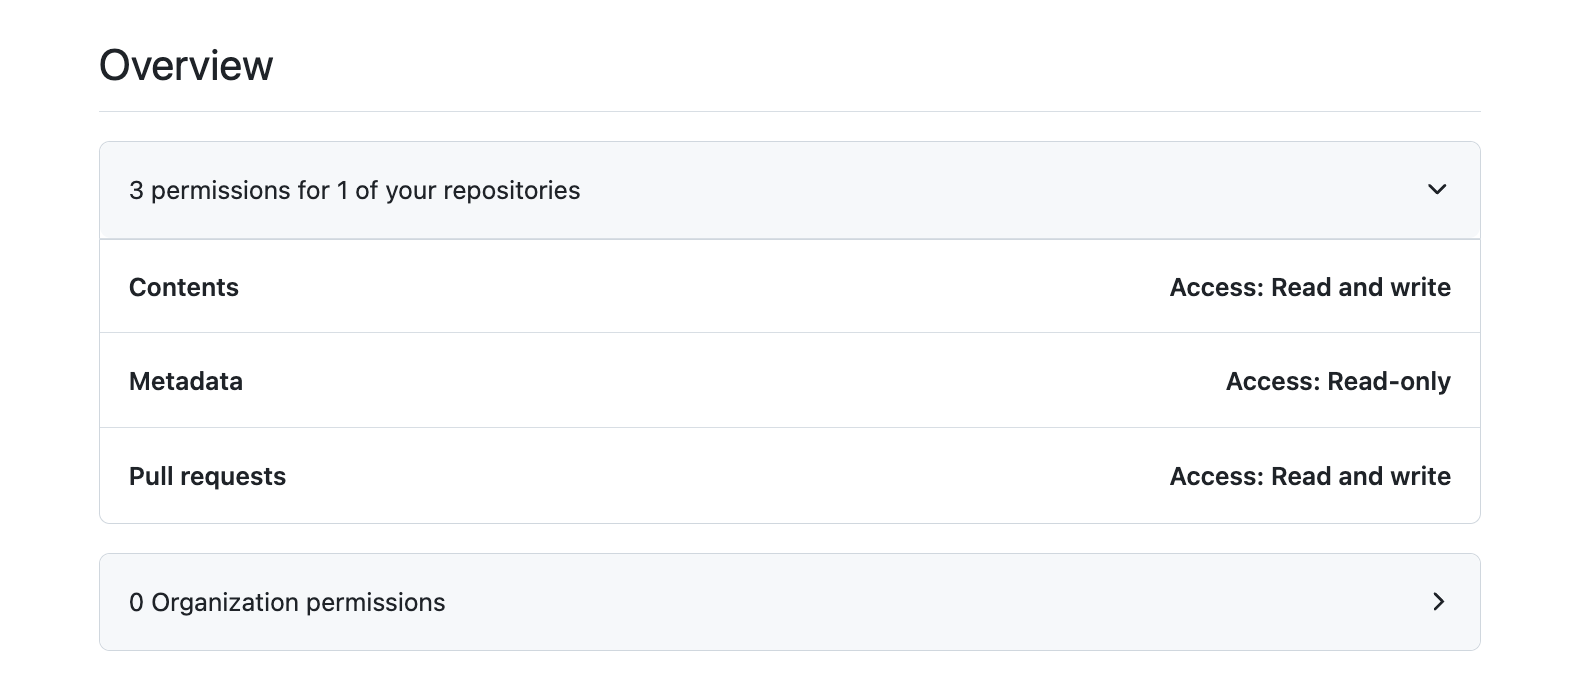
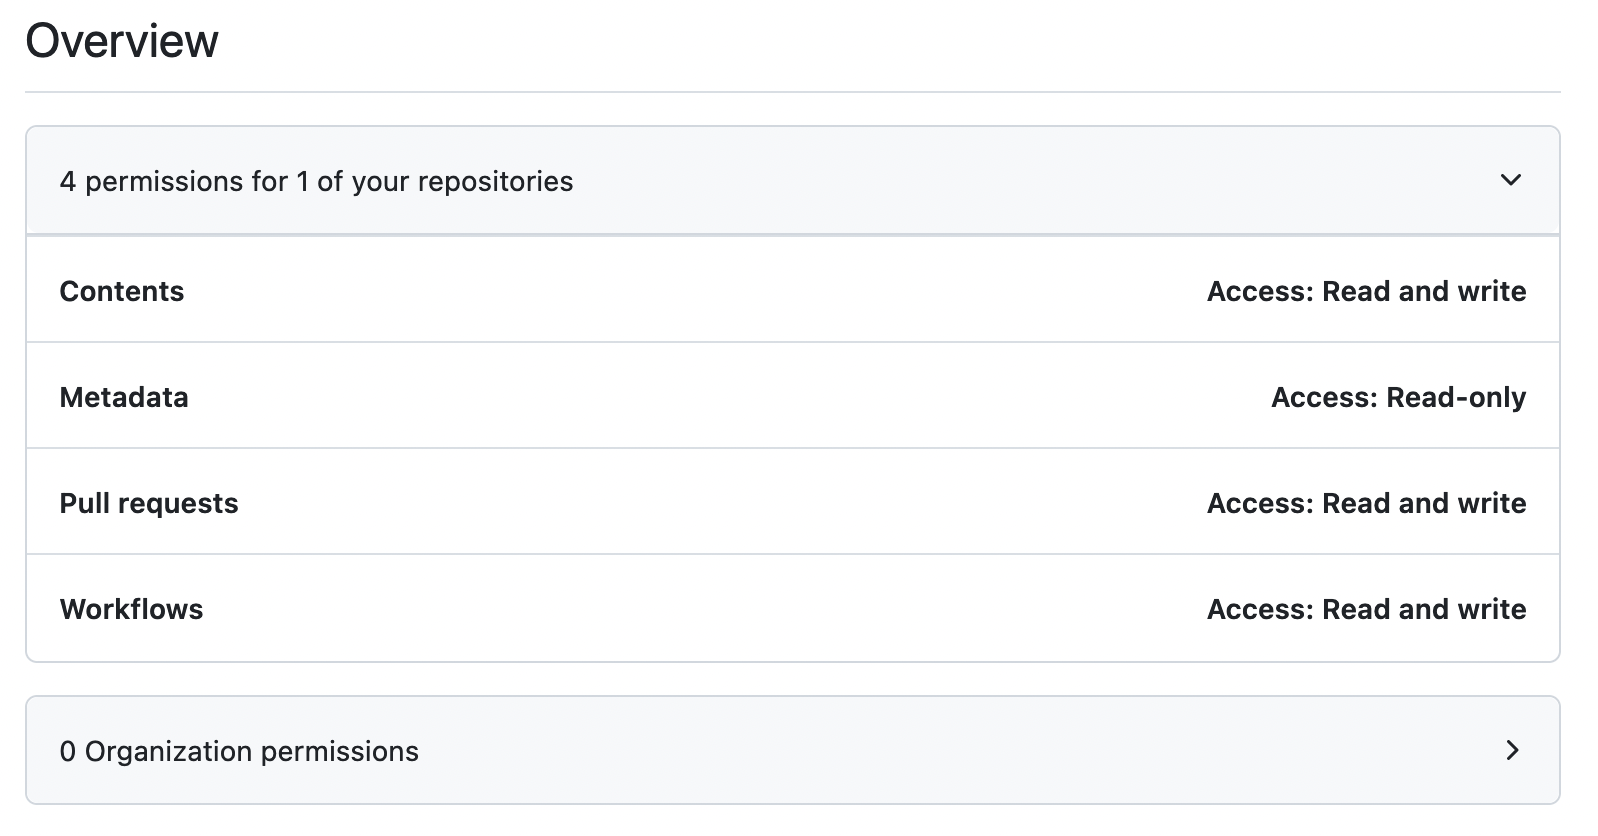
update pipelines bootstrap pat

diff --git a/docs/pipelines/security/machine-users.md b/docs/pipelines/security/machine-users.md
@@ -59,6 +59,7 @@ First, invite the `ci-user` to both your `infrastructure-live` and `infrastructu
     - Contents read & write access
     - Metadata read access
     - Pull Requests read & write access
+    - Workflows read & write access
 
     ![PIPELINES_BOOTSTRAP PAT Configuration](/img/pipelines/security/PIPELINES_BOOTSTRAP.png)
 
@@ -111,6 +112,6 @@ In the `infrastructure-pipelines` repository create the following secrets:
 <!-- ##DOCS-SOURCER-START
 {
   "sourcePlugin": "local-copier",
-  "hash": "ea102d44941e9ea93e16aec5da671ece"
+  "hash": "dbd9a8ac3bc3bbab0e0c654dbfb037f2"
 }
 ##DOCS-SOURCER-END -->

diff --git a/_docs-sources/pipelines/security/machine-users.md b/_docs-sources/pipelines/security/machine-users.md
@@ -59,6 +59,7 @@ First, invite the `ci-user` to both your `infrastructure-live` and `infrastructu
     - Contents read & write access
     - Metadata read access
     - Pull Requests read & write access
+    - Workflows read & write access
 
     ![PIPELINES_BOOTSTRAP PAT Configuration](/img/pipelines/security/PIPELINES_BOOTSTRAP.png)
 
